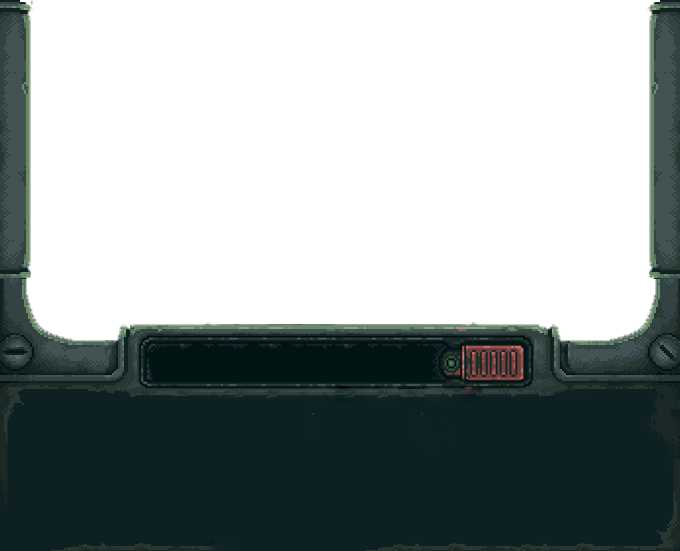
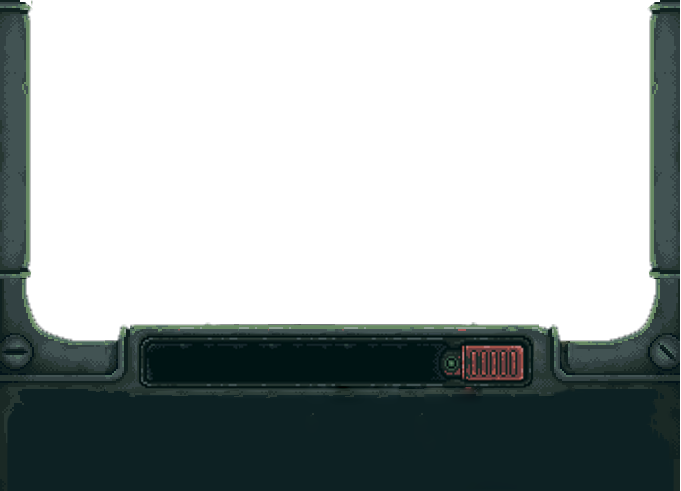
- Update mobile UI

diff --git a/src/MobileApp.jsx b/src/MobileApp.jsx
@@ -17,7 +17,10 @@ import ProjectListPage from "./components/ProjectListPage/ProjectListPage";
 
 function MobileApp() {
     const [topFrameHeight, setTopFrameHeight] = useState(0);
+    const [navBarHeight, setNavBarHeight] = useState(0);
     const [bottomFrameHeight, setBottomFrameHeight] = useState(0);
+    const [titleFrameHeight, setTitleFrameHeight] = useState(0);
+
     const [currentPageIndex, setCurrentPageIndex] = useState(0);
     const [transitionType, setTransitionType] = useState(null);
     const transitionDuration = 0.6;
@@ -30,7 +33,7 @@ function MobileApp() {
 
     //set up interval for clock update
     useEffect(() => {
-        const timer = setInterval(() => {
+        setInterval(() => {
             setTime(new Date());
         }, 1000);
     }, []);
@@ -266,19 +269,24 @@ function MobileApp() {
                     src="/src/assets/img/top.png"
                     alt=""
                     className="frame-top"
-                    onLoad={(e) => setTopFrameHeight(e.target.clientHeight)}
+                    onLoad={(e) => setTopFrameHeight(e.target.clientHeight * 0.2)}
                 />
                 <img
                     src="/src/assets/img/bottom.png"
                     alt=""
                     className="frame-bottom"
-                    onLoad={(e) => setBottomFrameHeight(e.target.clientHeight)}
+                    onLoad={(e) => {
+                        setBottomFrameHeight(e.target.clientHeight * 0.2);
+                        setNavBarHeight(e.target.clientHeight * 0.19);
+                        setTitleFrameHeight(e.target.clientHeight * 0.14);
+                    }}
                 />
                 <Page
                     className="mobile"
                     style={{
-                        height: "calc(100vh - " + bottomFrameHeight * 0.38 + "px)",
-                        paddingTop: topFrameHeight / 5 + "px",
+                        height: "calc(100vh - " + navBarHeight + "px)",
+                        paddingTop: topFrameHeight + "px",
+                        paddingBottom: bottomFrameHeight + "px",
                     }}
                 >
                     <TopBar time={time}></TopBar>
@@ -291,7 +299,7 @@ function MobileApp() {
                         <>
                             <TimeDisplay time={time} setTime={setTime} lang={lang} />
 
-                            <div className={"app-list"} style={{ paddingBottom: topFrameHeight / 5 + "px" }}>
+                            <div className={"app-list"} style={{ paddingBottom: bottomFrameHeight * 2 + "px" }}>
                                 {pages.map((page, index) => {
                                     return <AppItem data={page} key={index} handleOpenApp={handleOpenApp}></AppItem>;
                                 })}
@@ -305,14 +313,14 @@ function MobileApp() {
                     </div>
                 </Page>
 
-                <div className="title-display" style={{ paddingBottom: bottomFrameHeight * 0.32 + "px" }}>
+                <div
+                    className="title-display"
+                    style={{ marginBottom: navBarHeight + "px", height: titleFrameHeight + "px" }}
+                >
                     <span> {pages[currentPageIndex].displayName()}</span>
                 </div>
 
-                <div
-                    className="mobile-nav-bar"
-                    style={{ height: bottomFrameHeight * 0.28 + "px", padding: "0 10vw 6vh" }}
-                >
+                <div className="mobile-nav-bar" style={{ height: navBarHeight + "px", padding: "0 10vw" }}>
                     <NavBtn onClick={handleGoBack} imageUrl={"/src/assets/img/btn-back.png"} textDisplay="Back" />
                     <NavBtn onClick={handleCloseApp} imageUrl={"/src/assets/img/btn-home.png"} textDisplay="Home" />
                     <NavBtn onClick={handleCloseApp} imageUrl={"/src/assets/img/btn-menu.png"} textDisplay="Recent" />

diff --git a/src/components/ProjectListPage/ProjectListPage.jsx b/src/components/ProjectListPage/ProjectListPage.jsx
@@ -44,7 +44,7 @@ export default function ProjectListPage({ data, skills, bottomFrameHeight, goBac
             ) : (
                 <>
                     <ProjectPage data={data.projects[selectedProject]} lang={lang} skills={skills} />
-                    <div className="navigation" style={{ paddingBottom: bottomFrameHeight * 0.15 }}>
+                    <div className="navigation" style={{ paddingBottom: bottomFrameHeight + "px" }}>
                         <a href={data.projects[selectedProject].gitHubUrl} className="github">
                             <svg xmlns="http://www.w3.org/2000/svg" viewBox="0 0 496 512">
                                 <path d="M165.9 397.4c0 2-2.3 3.6-5.2 3.6-3.3 .3-5.6-1.3-5.6-3.6 0-2 2.3-3.6 5.2-3.6 3-.3 5.6 1.3 5.6 3.6zm-31.1-4.5c-.7 2 1.3 4.3 4.3 4.9 2.6 1 5.6 0 6.2-2s-1.3-4.3-4.3-5.2c-2.6-.7-5.5 .3-6.2 2.3zm44.2-1.7c-2.9 .7-4.9 2.6-4.6 4.9 .3 2 2.9 3.3 5.9 2.6 2.9-.7 4.9-2.6 4.6-4.6-.3-1.9-3-3.2-5.9-2.9zM244.8 8C106.1 8 0 113.3 0 252c0 110.9 69.8 205.8 169.5 239.2 12.8 2.3 17.3-5.6 17.3-12.1 0-6.2-.3-40.4-.3-61.4 0 0-70 15-84.7-29.8 0 0-11.4-29.1-27.8-36.6 0 0-22.9-15.7 1.6-15.4 0 0 24.9 2 38.6 25.8 21.9 38.6 58.6 27.5 72.9 20.9 2.3-16 8.8-27.1 16-33.7-55.9-6.2-112.3-14.3-112.3-110.5 0-27.5 7.6-41.3 23.6-58.9-2.6-6.5-11.1-33.3 2.6-67.9 20.9-6.5 69 27 69 27 20-5.6 41.5-8.5 62.8-8.5s42.8 2.9 62.8 8.5c0 0 48.1-33.6 69-27 13.7 34.7 5.2 61.4 2.6 67.9 16 17.7 25.8 31.5 25.8 58.9 0 96.5-58.9 104.2-114.8 110.5 9.2 7.9 17 22.9 17 46.4 0 33.7-.3 75.4-.3 83.6 0 6.5 4.6 14.4 17.3 12.1C428.2 457.8 496 362.9 496 252 496 113.3 383.5 8 244.8 8zM97.2 352.9c-1.3 1-1 3.3 .7 5.2 1.6 1.6 3.9 2.3 5.2 1 1.3-1 1-3.3-.7-5.2-1.6-1.6-3.9-2.3-5.2-1zm-10.8-8.1c-.7 1.3 .3 2.9 2.3 3.9 1.6 1 3.6 .7 4.3-.7 .7-1.3-.3-2.9-2.3-3.9-2-.6-3.6-.3-4.3 .7zm32.4 35.6c-1.6 1.3-1 4.3 1.3 6.2 2.3 2.3 5.2 2.6 6.5 1 1.3-1.3 .7-4.3-1.3-6.2-2.2-2.3-5.2-2.6-6.5-1zm-11.4-14.7c-1.6 1-1.6 3.6 0 5.9 1.6 2.3 4.3 3.3 5.6 2.3 1.6-1.3 1.6-3.9 0-6.2-1.4-2.3-4-3.3-5.6-2z" />

diff --git a/src/App.scss b/src/App.scss
@@ -13,6 +13,12 @@
     }
 }
 
+// @supports (height: 100dvh) {
+//     #canvas-container {
+//         height: 100dvh;
+//     }
+// }
+
 @font-face {
     font-family: "pixelFont";
     font-style: normal;
@@ -93,7 +99,7 @@
 #mobile-container {
     overflow: hidden;
     width: 100vw;
-    height: 100vh;
+    height: 100dvh;
     display: flex;
     flex-direction: column;
     position: relative;
@@ -216,5 +222,8 @@
         padding-left: 25vw;
         bottom: 0;
         z-index: 99999999;
+        display: flex;
+        align-items: center;
+        justify-content: center;
     }
 }

diff --git a/src/components/ProjectListPage/ProjectListPage.scss b/src/components/ProjectListPage/ProjectListPage.scss
@@ -71,7 +71,7 @@
         height: fit-content;
         width: 100vw;
         left: -7vw;
-        padding: 8px 7vw;
+        padding: 1vh 7vw 0;
         bottom: 0;
         display: flex;
         gap: 8px;
